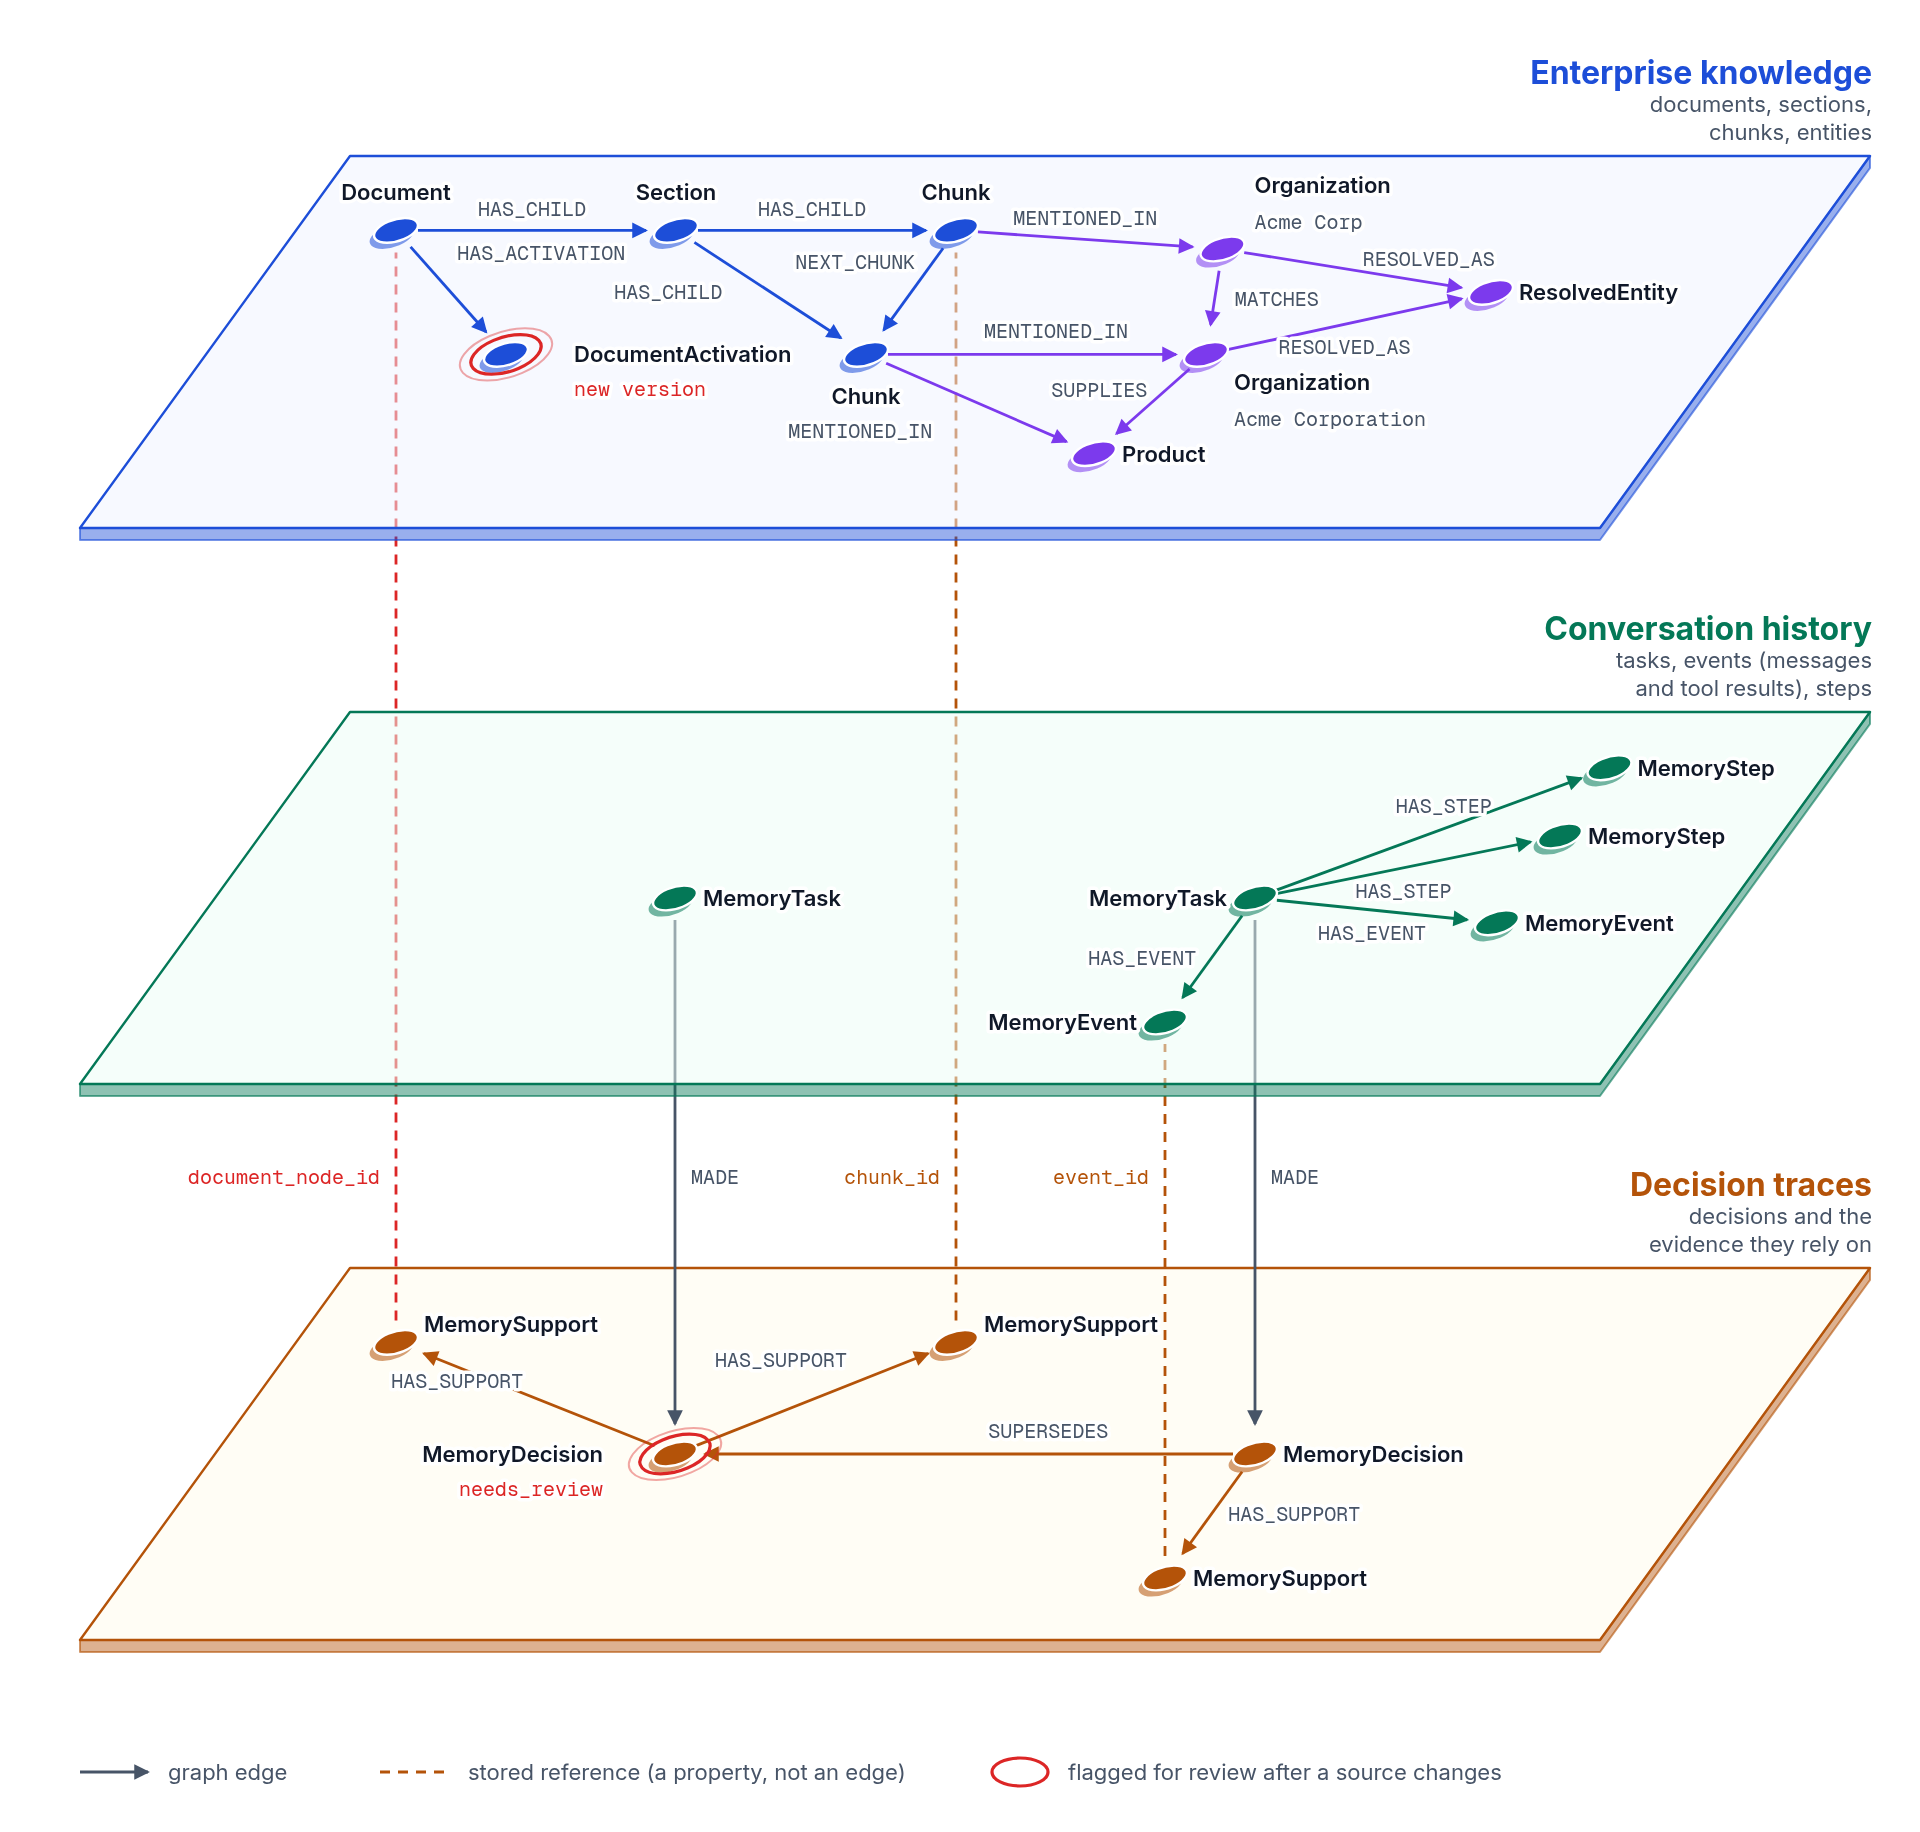
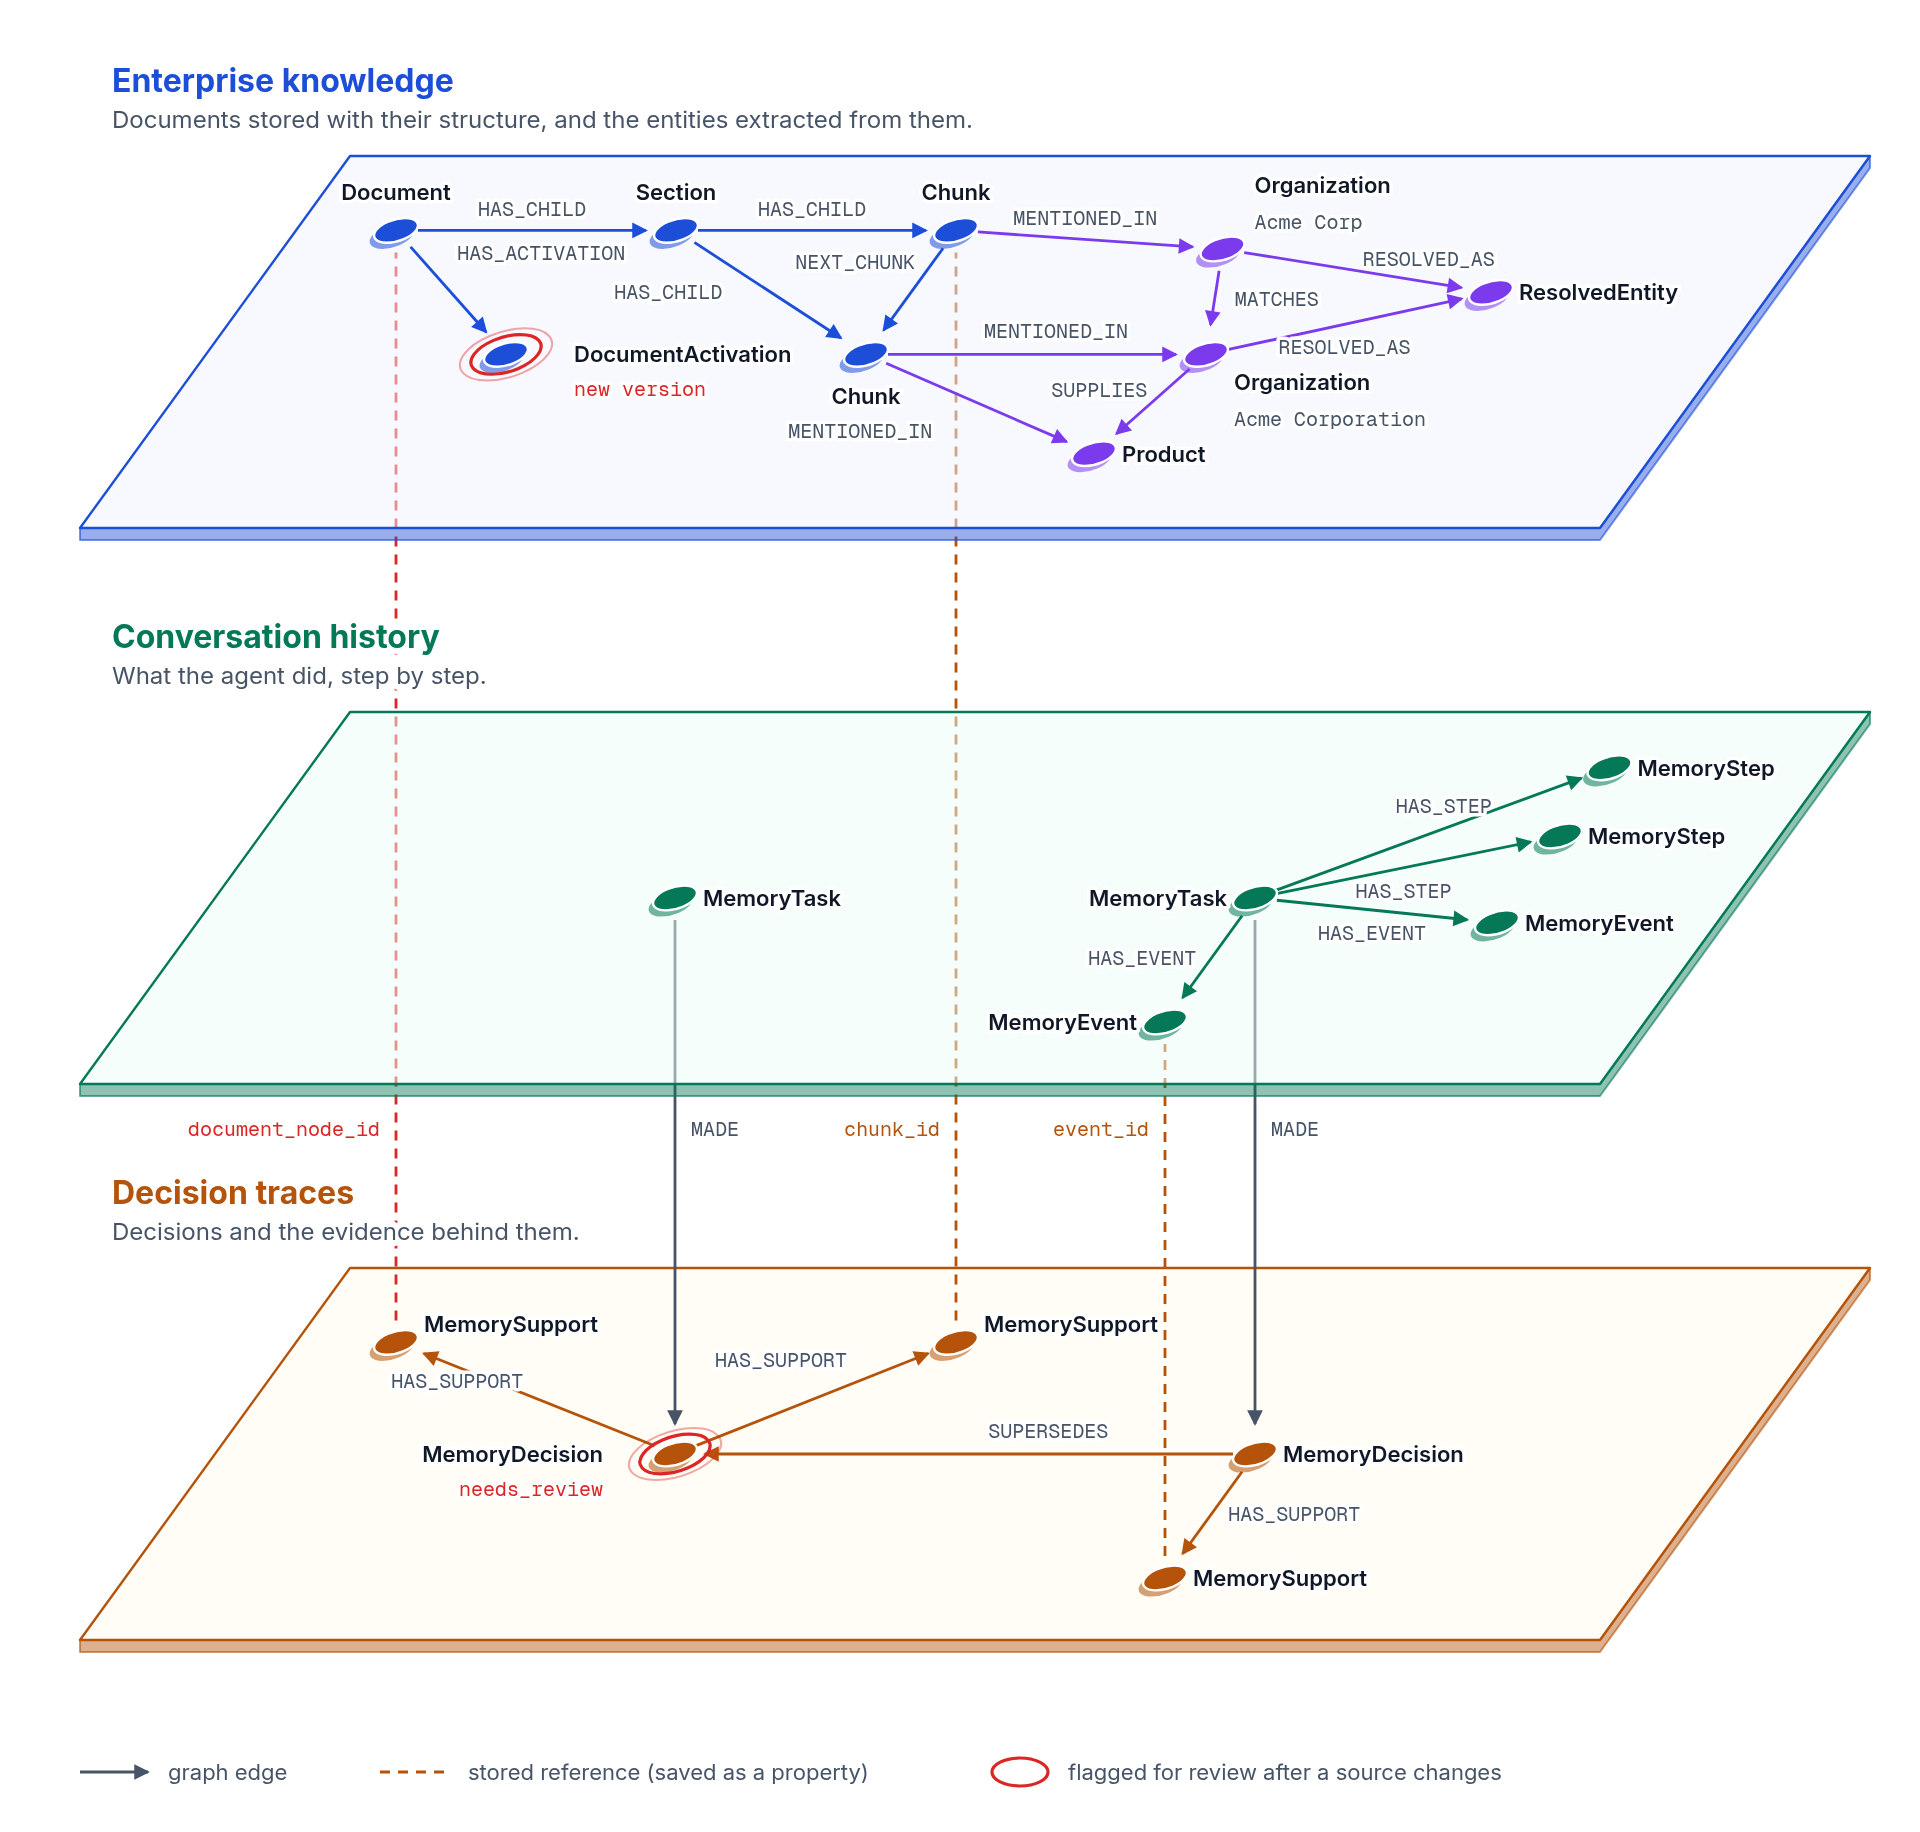
docs: add the schema pipeline diagram and update the layer diagram

diff --git a/README.md b/README.md
@@ -48,6 +48,10 @@ Documents, agent work, and decisions live together, so every answer can be trace
 
 You decide which things matter, and the graph is built around them.
 
+<p align="center">
+  <img src="https://raw.githubusercontent.com/ontogr/agentic-graphrag/main/docs/static/img/readme/schema-pipeline.png" alt="Extraction reads each chunk with a local model, sends uncertain chunks to an LLM, and checks the result against your schema. Entities and relationships outside the schema are saved for review. Resolution then compares entities in steps, from cheap checks to an LLM, and stores each match as a link." width="860">
+</p>
+
 - **Describe your own entities and relations.** Name the kinds of things that matter to you, such as people, contracts, or products, and the relations between them. Write the schema in code or in a configuration file, or start from a ready-made preset and extend it.
 - **Extraction runs on your machine first.** You can build a graph without an LLM. When the local model is unsure about a passage, an LLM can read it, and you decide how much of each batch the LLM may read.
 - **Nothing outside your schema is lost.** Anything the models find that your schema does not cover is saved for review. Approved items become part of your schema and your graph.
